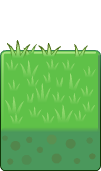
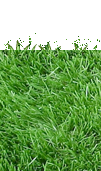
Update graphics and styles

diff --git a/js/app.js b/js/app.js
@@ -278,10 +278,10 @@ for (i = 0; i < numberOfEnemies; i++) {
    allEnemies[i].dir = enemyDir;
 }
 
-// Place the player object in player variable 
+
 var player = new Player();
 
-// This listens for key presses and sends the keys to
+// Listen for key presses and sends the keys to
 // Player.handleInput() method.
 document.addEventListener('keyup', function (e) {
    var allowedKeys = {

diff --git a/css/style.css b/css/style.css
@@ -1,5 +1,6 @@
 body {
     text-align: center;
+    background: #8F7D89;
 }
 
 
@@ -25,4 +26,10 @@ body {
   -moz-animation:    shake 50ms 9;
   -o-animation:      shake 50ms 9;
   animation:         shake 50ms 9; 
+}
+
+canvas {
+      border: pink 33px solid;
+      height: 88vh;
+      background: #bbb;
 }

diff --git a/js/engine.js b/js/engine.js
@@ -19,7 +19,7 @@ var Engine = (function (global) {
    canvas.setAttribute('id', 'canvas');
 
    canvas.width = 505;
-   canvas.height = 606;
+   canvas.height = 588;
 
    doc.body.appendChild(canvas);
 
